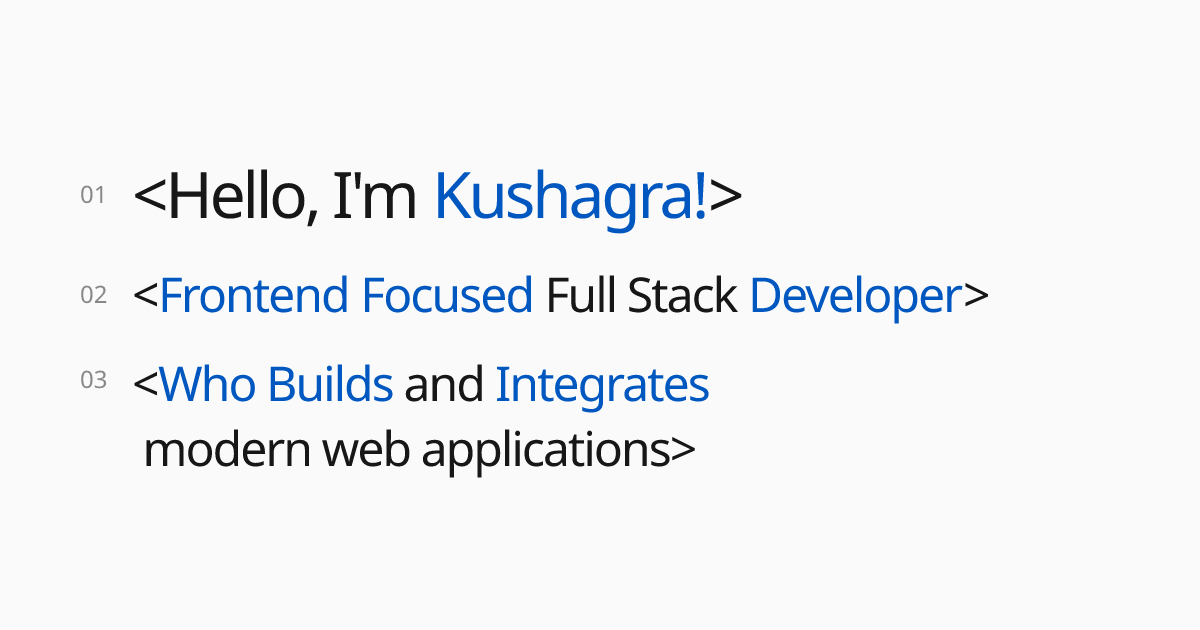
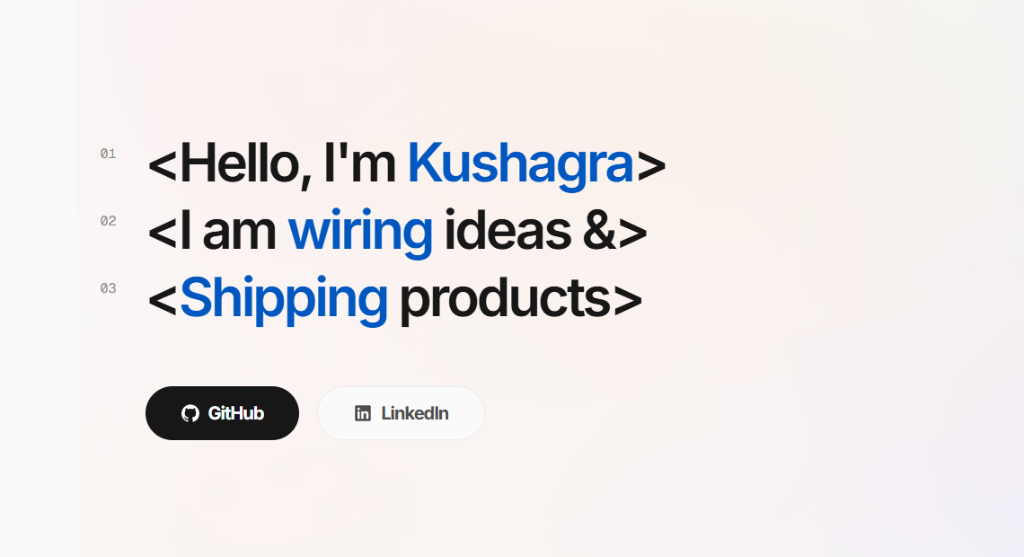
Kushagra dev (#46)
* Update page.jsx

* Import layout components and AnimatePresence

Update src/app/page.jsx to add useState/useEffect and AnimatePresence from framer-motion, and import Header, Main, and Footer components. Prepares the page to manage client-side state and mount layout components with presence animations.

* Mobile-friendly cursor & clicks for project cards

Make project cards usable on touch devices: move the global .project-row-card { cursor: none } into a min-width:501px media query and restore cursor styles for <=500px, ensuring links/buttons/image container show pointer on mobile. Update Main.jsx to initialize window width safely for SSR, set actual width on mount, and derive isMobile to components. ProjectCard now suppresses the hover tooltip on mobile, uses pointer cursor, handles clicks to open the live link only on mobile, and stops propagation on action clicks. These changes preserve the desktop aesthetic (hidden cursor) while restoring expected touch behavior and accessibility on mobile devices.

* Add dynamic Open Graph image component

Introduce an edge-runtime Open Graph image generator using Next.js ImageResponse (src/app/opengraph-image.jsx). Exports alt, size, contentType and composes a programmatic PNG with three stylized lines for the portfolio header. Remove the previous static opengraph-image.png in favor of this maintainable, dynamic JSX-based OG image.

* Update project.js

* Update Footer.jsx

* Replace favicon.ico with icon.png
[…]

Changed region(s): [[0.0625, 0.2442, 0.8438, 0.7935]]

diff --git a/src/components/Main.jsx b/src/components/Main.jsx
@@ -28,23 +28,20 @@ const heroLineVariants = {
 };
 
 const cardContainerVariants = {
-  hidden: {},
+  hidden: { opacity: 1 },
   visible: {
+    opacity: 1,
     transition: {
-      staggerChildren: 0.3,
+      staggerChildren: 0,
     },
   },
 };
 
 const cardItemVariants = {
-  hidden: { opacity: 0, scale: 0.85 },
+  hidden: { opacity: 1, scale: 1 },
   visible: {
     opacity: 1,
     scale: 1,
-    transition: {
-      duration: 0.9,
-      ease: [0.22, 1, 0.36, 1],
-    },
   },
 };
 
@@ -742,7 +739,7 @@ function ProjectCard({ project, displayNumber, onOpenDetails, isMobile }) {
         }}
         style={{
           flex: "1 1 50%",
-          background: CATEGORY_GRADIENTS[project.category] || DEFAULT_GRADIENT,
+          backgroundColor: "#f0f0f0",
           display: "flex",
           alignItems: "center",
           justifyContent: "center",
